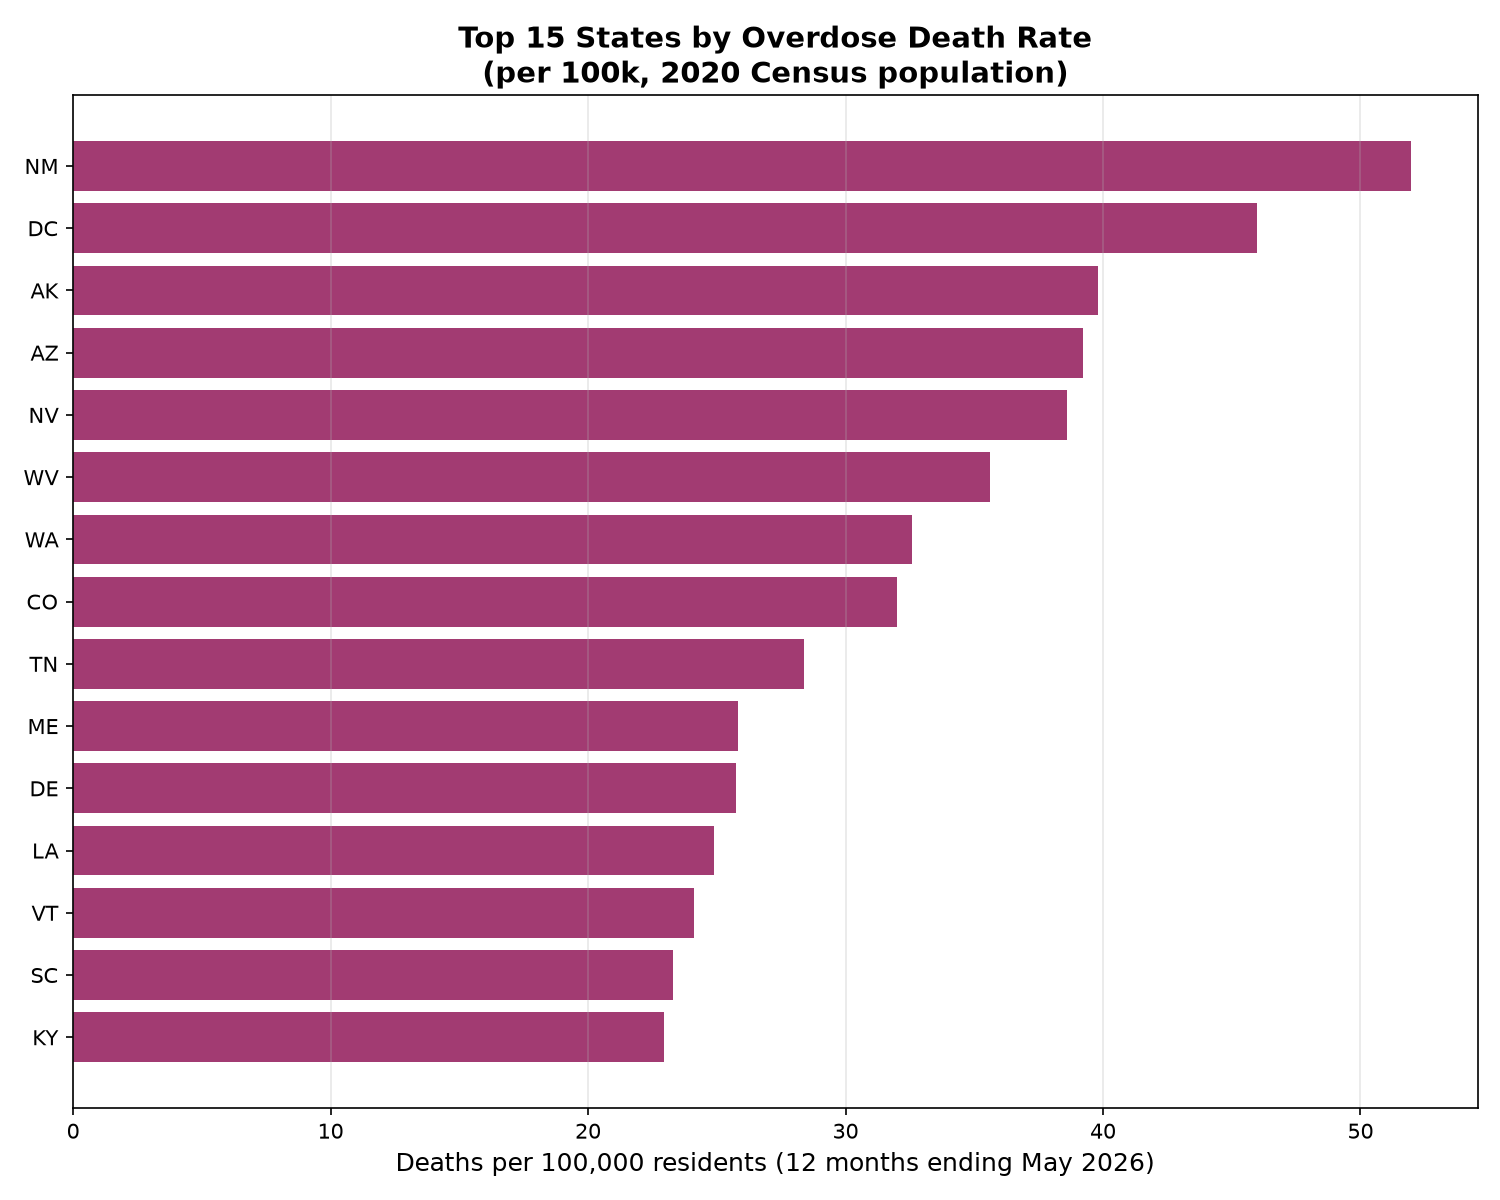
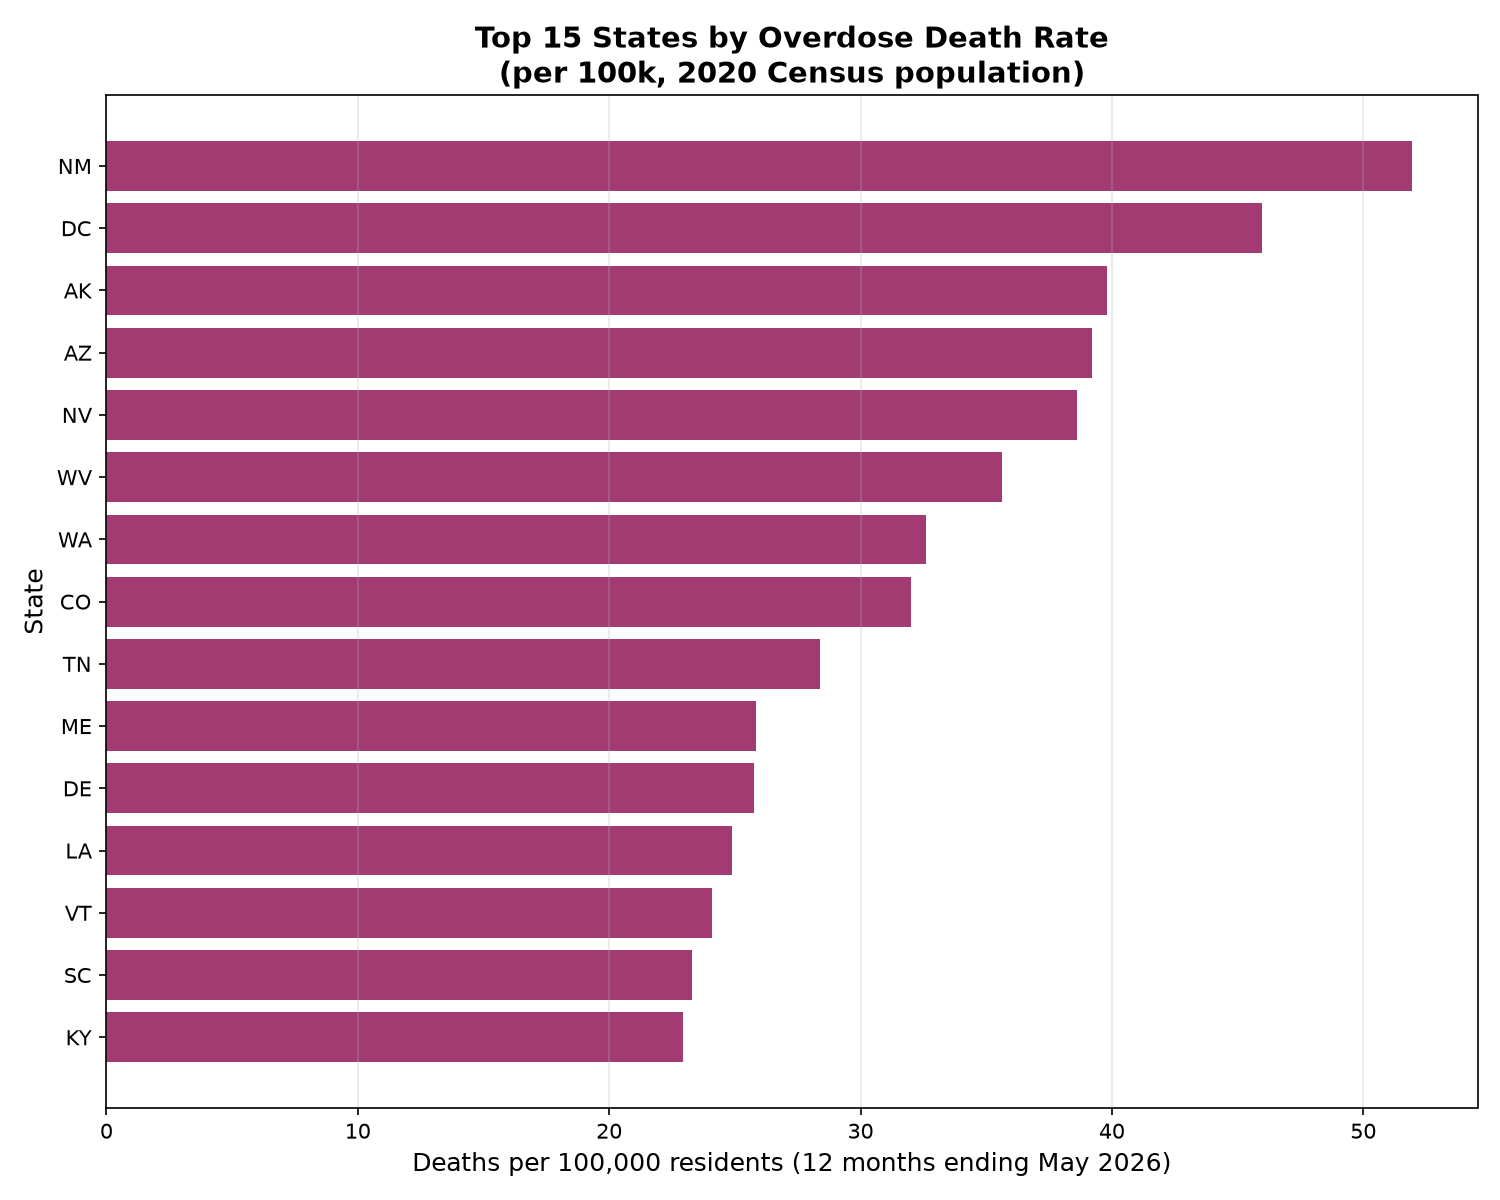
Add missing axis labels to exploratory charts 3 and 4

diff --git a/exploration/explore.py b/exploration/explore.py
@@ -153,6 +153,7 @@ y_pos = np.arange(len(ranked))
 ax.barh(y_pos, [rate(s, v) for s, v in ranked], color='#A23B72')
 ax.set_yticks(y_pos)
 ax.set_yticklabels([ABBR[s] for s, _ in ranked])
+ax.set_ylabel('State', fontsize=12)
 ax.invert_yaxis()
 ax.set_xlabel('Deaths per 100,000 residents (12 months ending '
               f"{latest_date:%b %Y})", fontsize=12)
@@ -183,6 +184,8 @@ ax.set_xticks(range(len(years)))
 ax.set_xticklabels(years, rotation=45)
 ax.set_yticks(range(len(order)))
 ax.set_yticklabels([ABBR[s] for s in order], fontsize=8)
+ax.set_xlabel('Year (12 months ending in December)', fontsize=12)
+ax.set_ylabel('State', fontsize=12)
 ax.set_title('Overdose Death Rate by State and Year\n(calendar-year deaths per 100k; '
              'sorted by latest rate; gray = no data)', fontsize=13, fontweight='bold')
 fig.colorbar(im, ax=ax, shrink=0.5, label='Deaths per 100k')
